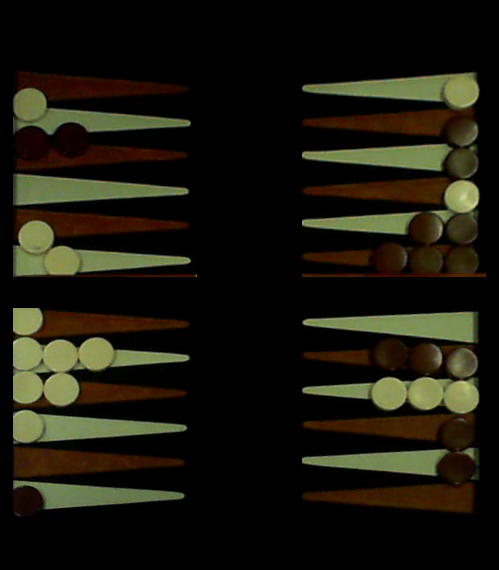
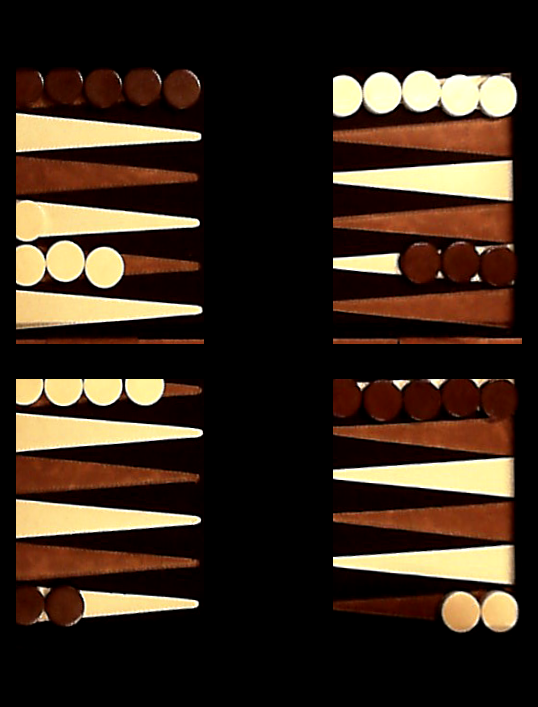
illegal move causing problem

diff --git a/tjPart.m b/tjPart.m
@@ -17,9 +17,9 @@ function [finished_turn, countNew, playerTurn, id_Matrix, piece_Matrix, move_1, 
 
         % Get initial board
         buffer = videoFrame;
-        r = buffer(:,end:-1:1,1)';
-        g = buffer(:,end:-1:1,2)';
-        b = buffer(:,end:-1:1,3)';
+        r = buffer(end:-1:1,:,1)';
+        g = buffer(end:-1:1,:,2)';
+        b = buffer(end:-1:1,:,3)';
         image = cat(3, r, g, b);
         cropBackground(image);
         [idMatFull, pieces] = outputPieces();
@@ -37,9 +37,9 @@ function [finished_turn, countNew, playerTurn, id_Matrix, piece_Matrix, move_1, 
         % Check for first move
         while firstDone == 0
             buffer = videoFrame;
-            r = buffer(:,end:-1:1,1)';
-            g = buffer(:,end:-1:1,2)';
-            b = buffer(:,end:-1:1,3)';
+            r = buffer(end:-1:1,:,1)';
+            g = buffer(end:-1:1,:,2)';
+            b = buffer(end:-1:1,:,3)';
             image = cat(3, r, g, b);
             cropBackground(image);
             [idMatFirst, piecesFirst] = outputPieces();
@@ -51,7 +51,7 @@ function [finished_turn, countNew, playerTurn, id_Matrix, piece_Matrix, move_1, 
         if secondDone == 1
             finished = 1;
 
-            disp('Turn Finished. Next Player. \n');
+            disp('Turn Finished. Next Player.');
             % change turn
             if turn == 1
                 playerTurn = 2;
@@ -60,7 +60,7 @@ function [finished_turn, countNew, playerTurn, id_Matrix, piece_Matrix, move_1, 
             end
         end
 
-        disp('First Movement Successful. Next Movement. \n');
+        disp('First Movement Successful. Next Movement.');
     elseif count == 2
 
         idMatFull = idMatrix;
@@ -78,11 +78,11 @@ function [finished_turn, countNew, playerTurn, id_Matrix, piece_Matrix, move_1, 
             move1 = identifySecond(newRoll, turn, idMatFull, pieces, returnable, available, unavailable);
             while secondDone == 0
                 buffer = videoFrame;
-            r = buffer(:,end:-1:1,1)';
-            g = buffer(:,end:-1:1,2)';
-            b = buffer(:,end:-1:1,3)';
-            image = cat(3, r, g, b);
-            cropBackground(image);
+                r = buffer(end:-1:1,:,1)';
+                g = buffer(end:-1:1,:,2)';
+                b = buffer(end:-1:1,:,3)';
+                image = cat(3, r, g, b);
+                cropBackground(image);
                 [idMatSecond, piecesSecond] = outputPieces();
                 secondDone = secondMovement(pieces, piecesSecond, move1);
             end
@@ -90,7 +90,7 @@ function [finished_turn, countNew, playerTurn, id_Matrix, piece_Matrix, move_1, 
             pieces = piecesSecond;
             %finished = checkFinished(idMatFull);
         %end
-        disp('Second Movement Successful.\n');
+        disp('Second Movement Successful.');
         % change turn
         if turn == 1
             playerTurn = 2;
@@ -98,7 +98,7 @@ function [finished_turn, countNew, playerTurn, id_Matrix, piece_Matrix, move_1, 
             playerTurn = 1;
         end
 
-        disp('Turn Finished. Next Player. \n');
+        disp('Turn Finished. Next Player.');
         countNew = count + 1;
         finished = 1;
     end

diff --git a/main_handtracking.m b/main_handtracking.m
@@ -33,7 +33,15 @@ perspective_correct = imtransform(sampleFrame, tform_param);
 sampleFrame = imcrop(perspective_correct, crop_rectangle);
 
 % initiate checkers detection
-% [a,b] = initialStage(sampleFrame);
+boardSet = 0;
+while boardSet == 0
+    % Get the next frame.
+    videoFrame = snapshot(cam);
+    % Correct the perspective of the camera
+    perspective_correct = imtransform(videoFrame, tform_param);
+    videoFrame = imcrop(perspective_correct, crop_rectangle);
+    [a,b, boardSet] = initialStage(videoFrame);
+end
 
 turn_count = 0;
 % White starts first
@@ -81,11 +89,14 @@ while runLoop
             
             %%%%%%%checkers detection
             
-%             [finished_turn, turn_count, turn_player, id_Matrix, pieces_Matrix, move_1, move_1p] = tjPart(videoFrame, move_array, turn_count, turn_player, id_Matrix, pieces_Matrix, move_1, move_1p);
-%             % reset count
-%             if turn_count == 3
-%                 turn_count = 0;
-%             end
+            [finished_turn, turn_count, turn_player, id_Matrix, pieces_Matrix, move_1, move_1p] = tjPart(videoFrame, move_array, turn_count, turn_player, id_Matrix, pieces_Matrix, move_1, move_1p)
+            % reset count
+            turn_count = mod(turn_count, 3);
+            if finished_turn == 1
+                disp('next player');
+                finished_turn = 0;
+            end
+            
         end
     end
     

diff --git a/initialStage.m b/initialStage.m
@@ -1,24 +1,21 @@
-function [idMatFull, pieces] = initialStage(videoFrame)
+function [idMatFull, pieces, boardSetup] = initialStage(videoFrame)
 
-    boardSetup = 0;
+    boardSet = 0;
 
-    while boardSetup == 0
+    buffer = videoFrame;
+    r = buffer(end:-1:1,:,1)';
+    g = buffer(end:-1:1,:,2)';
+    b = buffer(end:-1:1,:,3)';
+    image = cat(3, r, g, b);
+    cropBackground(image);
+    [idMatFull, pieces] = outputPieces();
+    boardSet = initiateBoard(idMatFull, pieces);
 
-        buffer = videoFrame;
-        r = buffer(:,end:-1:1,1)';
-        g = buffer(:,end:-1:1,2)';
-        b = buffer(:,end:-1:1,3)';
-        image = cat(3, r, g, b);
-        cropBackground(image);
-        [idMatFull, pieces] = outputPieces();
-        boardSetup = initiateBoard(idMatFull, pieces);
-        
-        if boardSetup == 0
-            
-            disp('Error! Initial Setup Not Detected. \n');
-        else
-            
-            disp('Initiation Successful.\n');
-        end
+    if boardSet == 0
+        boardSetup = 0;
+        disp('Error! Initial Setup Not Detected.');
+    else
+        boardSetup = 1;
+        disp('Initiation Successful.');
     end
 end

diff --git a/initiateBoard.m b/initiateBoard.m
@@ -9,7 +9,12 @@ function boardStatus = initiateBoard(idMatFull, pieces)
                             5 0 0 0 3 0 ...
                             5 0 0 0 0 2];
 
-    if initialBoardID == idMatFull && initialBoardPieces == pieces
+                        
+%     if initialBoardPieces == pieces
+%         
+%         disp(0);
+%     end
+    if initialBoardID == idMatFull
         
         boardStatus = 1;
     else
